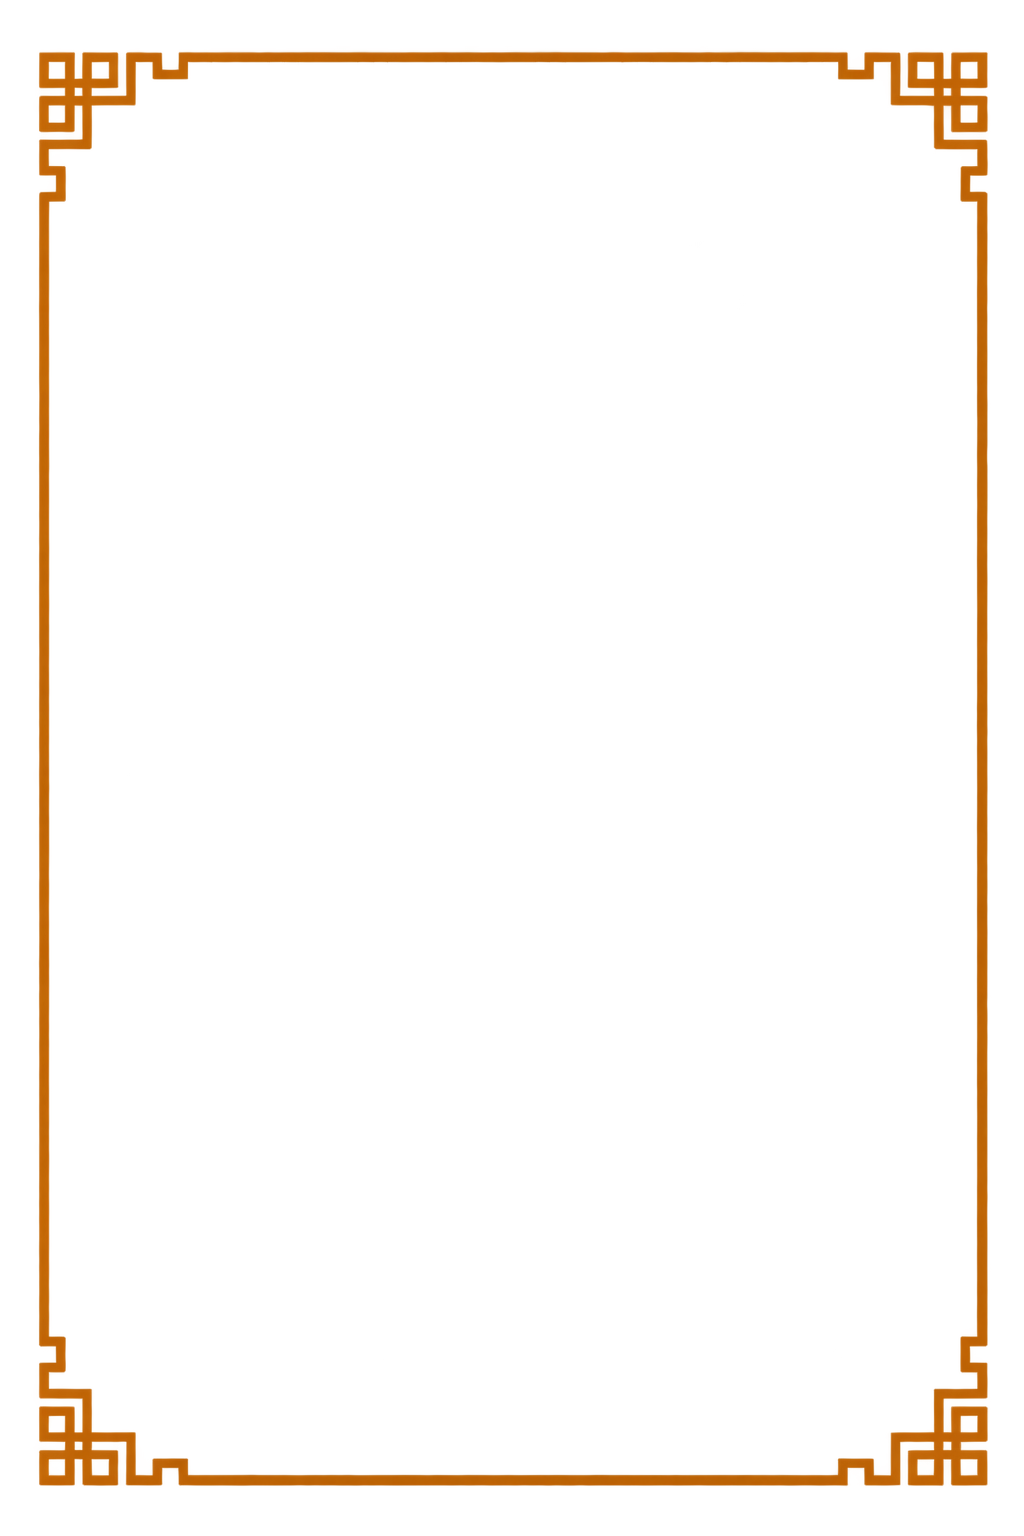
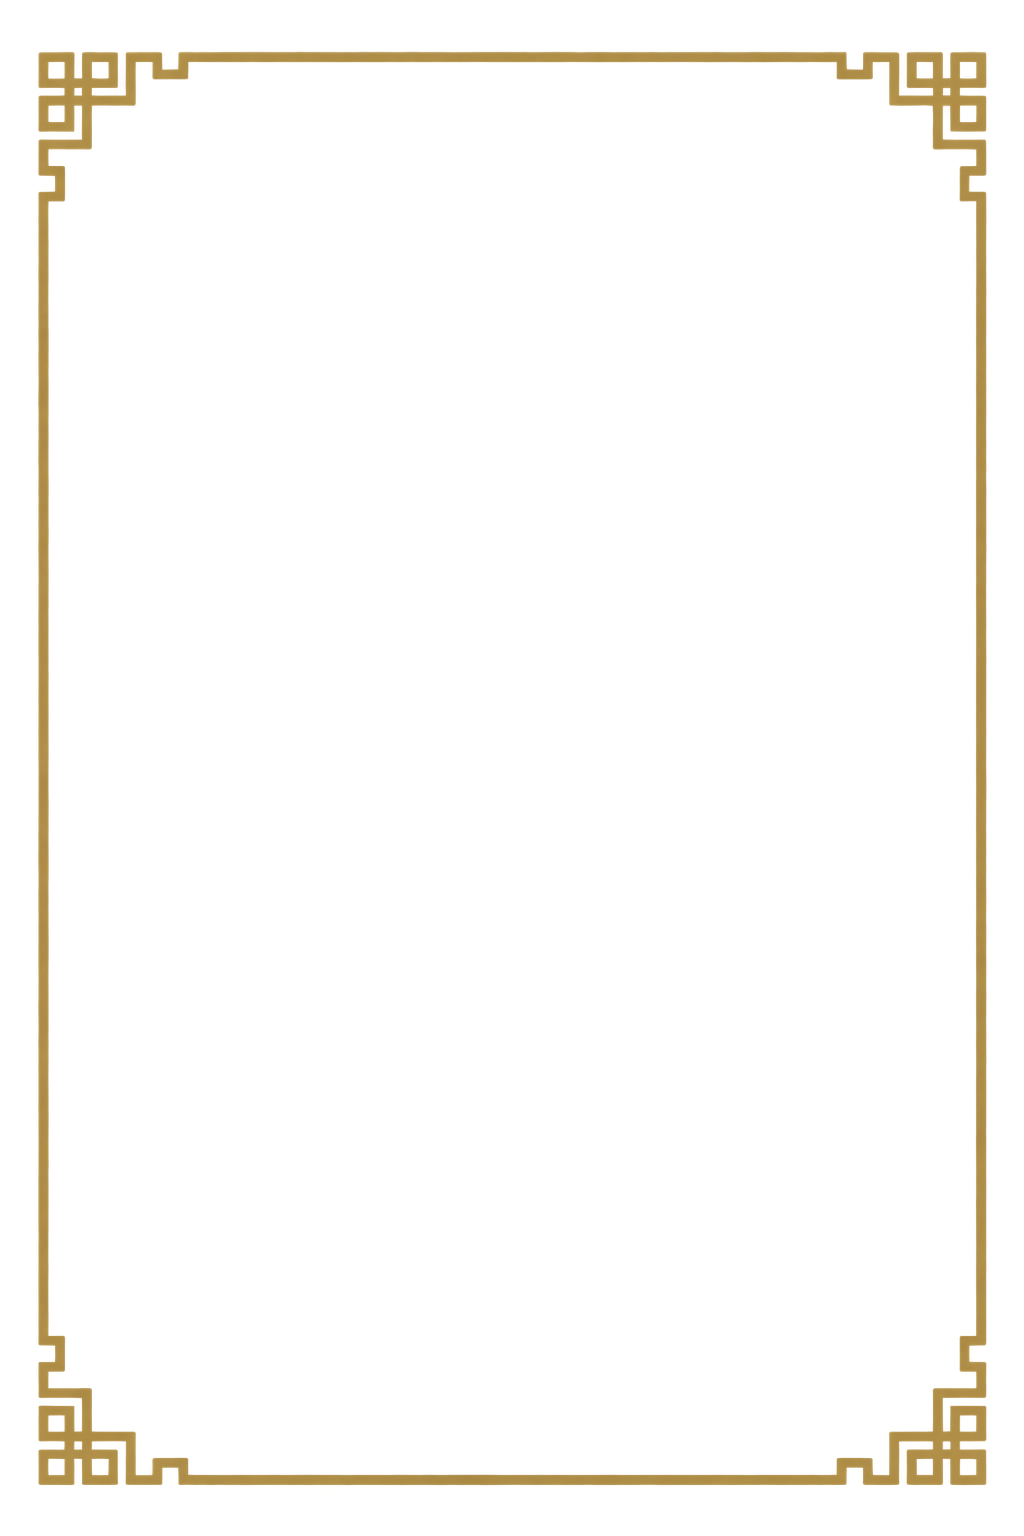
style(ui): recolor reference frame to muted brownish gold
Use the ImageGen antique-gold recolor archived in Drive; keep the same runtime asset path, slices and edge alignment. Inspected the transparent PNG in Chromium and verified the packaged Explorer assets.

Changed region(s): [[0.0312, 0.0312, 0.9688, 0.9688]]

diff --git a/android-apk/app/src/main/assets/ui/ornate-frame-v1.css b/android-apk/app/src/main/assets/ui/ornate-frame-v1.css
@@ -1,6 +1,6 @@
 /* ImageGen extraction of the supplied frame; transparent PNG archived in Drive.
    Nine-slice retains the source PNG. Outsets compensate its transparent outer margin. */
-:root{--ornate-frame:url('backrooms-reference-frame-v2.png');--ornate-slice:210 205;--ornate-gold:#c06404}
+:root{--ornate-frame:url('backrooms-reference-frame-v2.png');--ornate-slice:210 205;--ornate-gold:#b49a54}
 
 /* Decorative overlays never intercept taps or change the panel's layout. */
 .message.gm,.message.player,.game-menu-sheet .card,.character-section{position:relative;isolation:isolate}

diff --git a/android-apk/app/src/main/assets/ui/reference-frame-v2-source.md b/android-apk/app/src/main/assets/ui/reference-frame-v2-source.md
@@ -2,9 +2,9 @@
 
 - Source: user-provided `454.png`.
 - Tool: built-in ImageGen, background-extraction edit, 17 October 2026.
-- Drive archive: https://drive.google.com/file/d/1-rztfeKYxS4i4nmbfXY4dWmCqJiLd22n/view
+- Original orange Drive archive: https://drive.google.com/file/d/1-rztfeKYxS4i4nmbfXY4dWmCqJiLd22n/view
 - Runtime PNG: `backrooms-reference-frame-v2.png`, 1024 × 1536 RGBA.
-- Git blob: `e2696a1d310b9062c9c583a0bef3f070524a5dc7`. The uploaded Drive and repository asset use the same generated bytes.
+- Original orange Git blob: `e2696a1d310b9062c9c583a0bef3f070524a5dc7`. This identifies the original orange version before the recolor below.
 - Prompt: preserve the supplied frame geometry, four mirrored interlocking square corners, stepped outline and warm orange-gold stroke; remove all white/gray checkerboard pixels to genuine alpha transparency; no redesign, simplification, text, glow, bevel or shadow.
 - CSS slices: 210px vertically / 205px horizontally in source coordinates, including original outer margin. The centre is omitted.
 - CSS URL is relative to each consuming stylesheet; Explorer explicitly uses `ui/backrooms-reference-frame-v2.png`.
@@ -15,3 +15,11 @@
 The generated PNG starts its stroke about 52px from the top and 40px from the left. Painting the entire nine-slice inside the panel inset the gold line and exposed a background rim. CSS now uses outsets of 10px / 8px for 40px corners, scaled proportionally for compact 26px and 18px corners. The PNG is unchanged. Narrative/card padding is reduced to 32px (30px on narrow screens).
 
 Combat backgrounds use border-box origin. The retired inset box shadow and padding-box scanline pseudo-element are disabled so no second rectangle remains inside the decorated edge.
+
+## Antique gold recolor
+
+- Requested hue: yellow-gold with a slight brown cast, reduced orange; ImageGen color-only edit, target #B49A54.
+- Current Drive archive: https://drive.google.com/file/d/1jfLLsMDiTKD2-9Kjcx_iv6qpzyYjpW3y/view
+- Current runtime filename remains `backrooms-reference-frame-v2.png` so packaging contracts stay unchanged.
+- Current Git blob: `d5f8de0a5ee1088411484b97bc3f3ebe0a309eba`. Drive and GitHub use identical generated PNG bytes.
+- Verified RGBA 1024 × 1536 with a transparent centre; inspected in Chromium. No change to CSS slices or outsets.
